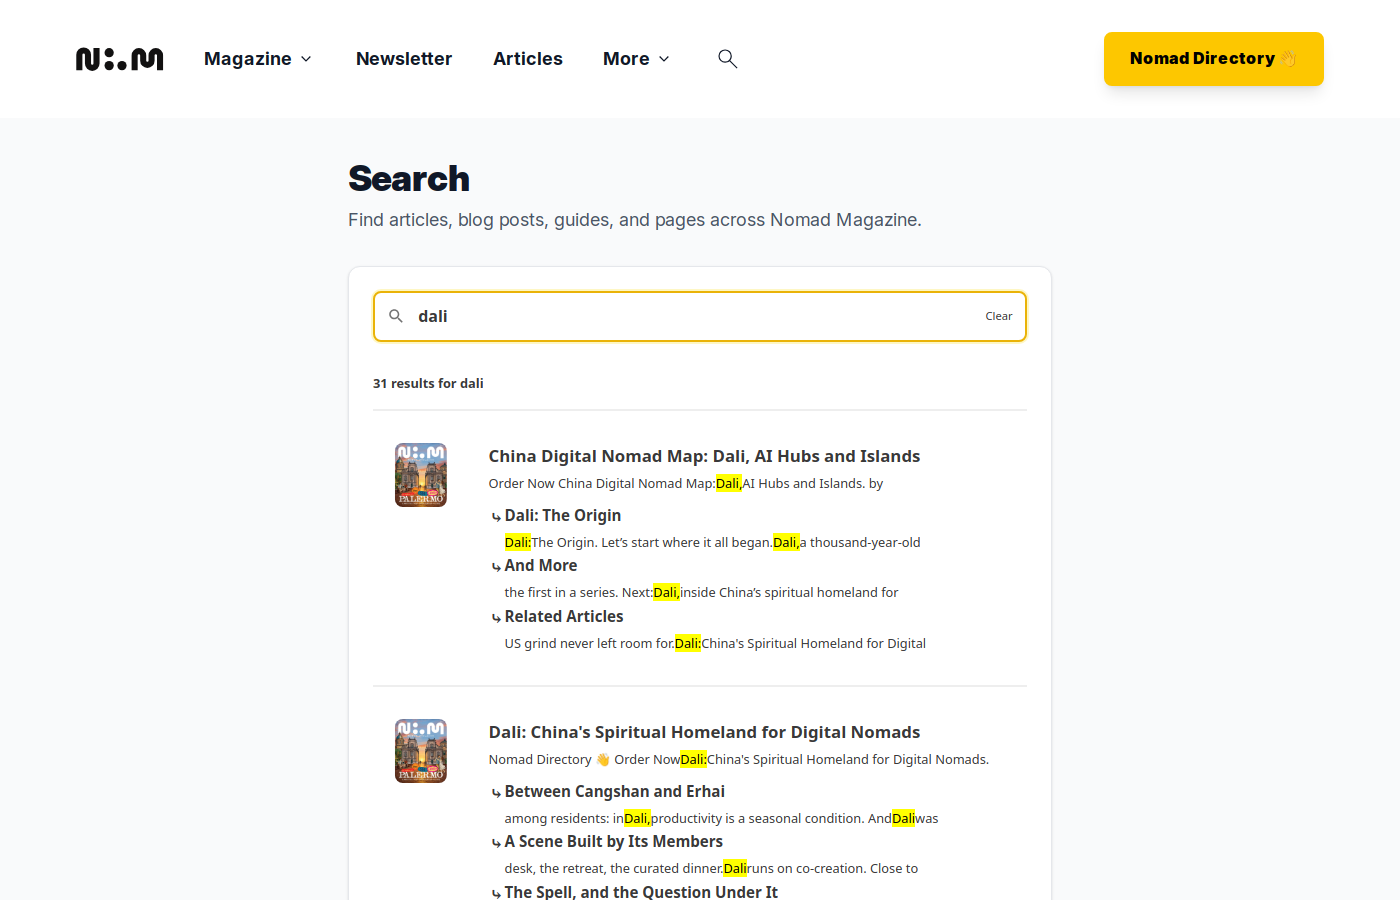
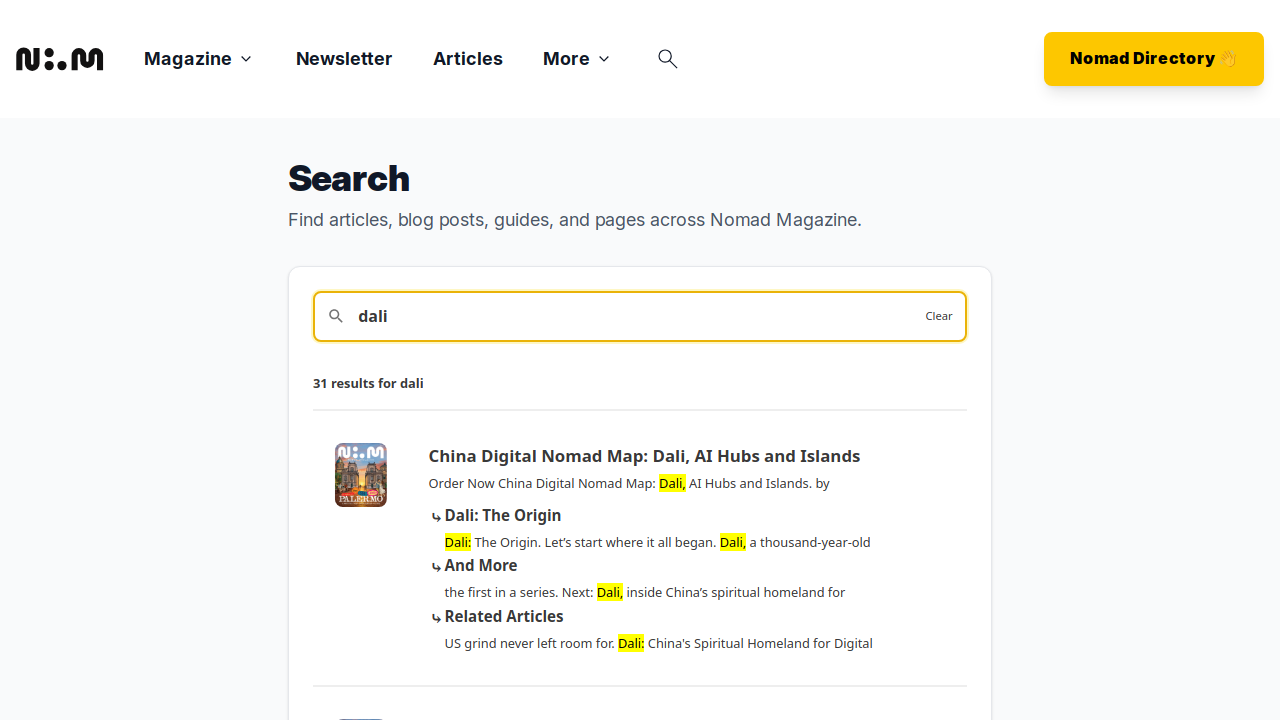
fix: excerpt spacing beside Pagefind marks (PR #48 re-check)
Do not trim per text node; unwrap non-mark elements; blockquote strip at line start only.
Drop one-off screenshot sync scripts; refresh after-18-search.png.

diff --git a/src/utils/clean-search-excerpt.ts b/src/utils/clean-search-excerpt.ts
@@ -1,19 +1,24 @@
 /** Strip markup for Pagefind result excerpts shown in /search/. */
 export function cleanSearchExcerpt(excerpt: string | undefined): string {
   if (!excerpt) return ''
-  let text = excerpt.replace(/<[^>]*>/g, ' ')
-  text = decodeHtmlEntities(text)
-  text = text
+  const text = cleanSearchExcerptFragment(excerpt.replace(/<[^>]*>/g, ' '))
+  return text.trim()
+}
+
+/** Clean excerpt text without edge trim (safe beside preserved `<mark>` nodes). */
+export function cleanSearchExcerptFragment(text: string): string {
+  let out = text
+  out = decodeHtmlEntities(out)
+  out = out
     .replace(/!\[([^\]]*)\]\([^)]*\)/g, '$1')
     .replace(/\[([^\]]+)\]\([^)]*\)/g, '$1')
     .replace(/`([^`]*)`/g, '$1')
     .replace(/(^|\s)#{1,6}(\s+)/g, '$1')
     .replace(/\*\*([^*]+)\*\*/g, '$1')
     .replace(/(^|[^*\w])\*([^*\n]+)\*([^*\w]|$)/g, '$1$2$3')
-    .replace(/(^|\s)>\s+/g, '$1')
+    .replace(/(^|\n)>\s+/g, '$1')
     .replace(/\s+/g, ' ')
-    .trim()
-  return text
+  return out
 }
 
 function decodeHtmlEntities(text: string): string {
@@ -28,20 +33,57 @@ function decodeHtmlEntities(text: string): string {
     .replace(/&#x([0-9a-f]+);/gi, (_, hex) => String.fromCharCode(parseInt(hex, 16)))
 }
 
-/** Clean non-highlight text in a Pagefind excerpt while preserving <mark> nodes. */
-export function cleanSearchExcerptDom(root: HTMLElement): void {
-  const cleanNode = (parent: Node) => {
+function unwrapNonMarkElements(root: HTMLElement): void {
+  const unwrap = (parent: Node) => {
     for (const child of [...parent.childNodes]) {
-      if (child.nodeType === Node.TEXT_NODE) {
-        const raw = child.textContent ?? ''
-        const cleaned = cleanSearchExcerpt(raw)
-        if (cleaned !== raw) child.textContent = cleaned
-      } else if (child.nodeType === Node.ELEMENT_NODE) {
+      if (child.nodeType === Node.ELEMENT_NODE) {
         const el = child as Element
-        if (el.tagName === 'MARK') continue
-        cleanNode(el)
+        if (el.tagName === 'MARK') {
+          unwrap(el)
+          continue
+        }
+        unwrap(el)
+        while (el.firstChild) parent.insertBefore(el.firstChild, el)
+        parent.removeChild(el)
       }
     }
   }
-  cleanNode(root)
+  unwrap(root)
+}
+
+function collectTextNodesInOrder(root: Node): Text[] {
+  const nodes: Text[] = []
+  const walk = (parent: Node) => {
+    for (const child of parent.childNodes) {
+      if (child.nodeType === Node.TEXT_NODE) nodes.push(child as Text)
+      else if (child.nodeType === Node.ELEMENT_NODE && (child as Element).tagName === 'MARK') walk(child)
+    }
+  }
+  walk(root)
+  return nodes
+}
+
+function cleanTextNodesPreserveMarkSpacing(root: HTMLElement): void {
+  const textNodes = collectTextNodesInOrder(root)
+  for (const node of textNodes) {
+    const raw = node.textContent ?? ''
+    const cleaned = cleanSearchExcerptFragment(raw)
+    if (cleaned !== raw) node.textContent = cleaned
+  }
+  const first = textNodes[0]
+  const last = textNodes[textNodes.length - 1]
+  if (first?.textContent) {
+    const t = first.textContent.replace(/^\s+/, '')
+    if (t !== first.textContent) first.textContent = t
+  }
+  if (last?.textContent) {
+    const t = last.textContent.replace(/\s+$/, '')
+    if (t !== last.textContent) last.textContent = t
+  }
+}
+
+/** Clean a Pagefind excerpt: text + `<mark>` only; preserves spacing beside highlights. */
+export function cleanSearchExcerptDom(root: HTMLElement): void {
+  unwrapNonMarkElements(root)
+  cleanTextNodesPreserveMarkSpacing(root)
 }
